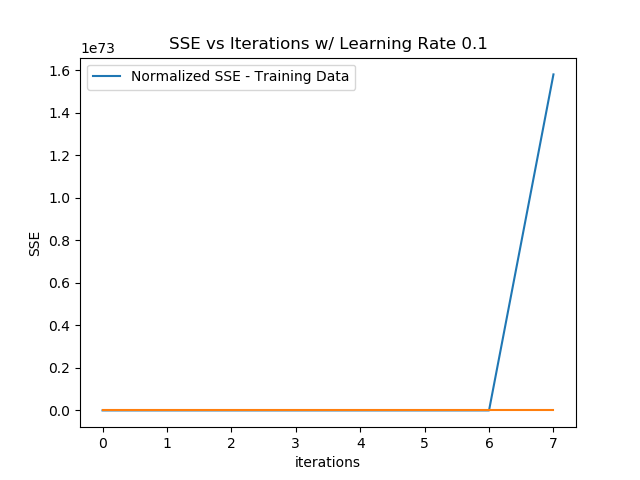
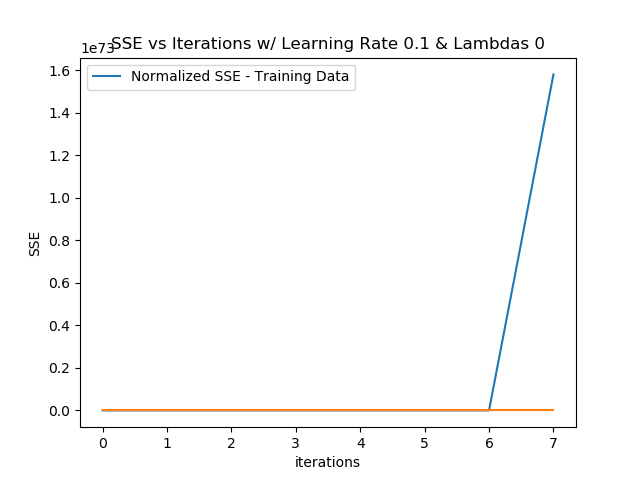
updated files

Changed region(s): [[0.1562, 0.0625, 0.8438, 0.125]]

diff --git a/implementation1.py b/implementation1.py
@@ -34,7 +34,7 @@ def separate(df_train):
     x = split_date(x)
     x = x.drop(["date"], axis=1)
     # Grab response y
-    y = df_train.iloc[:, -1]
+    y = df_train.iloc[:, -1].values
 
     return x, y
 
@@ -119,7 +119,6 @@ def linear_regress(x, y, eta, t, lamb):
         e = (y - y_hat) ** 2
 
         gradient_vector = (-2) * np.matmul(x.T, (y - y_hat))
-
         # Update weights
         w -= eta * gradient_vector
         # Calculate SSE
@@ -144,7 +143,7 @@ def linear_regress(x, y, eta, t, lamb):
             print()
             print()
             return w, errors, gradient, n
-        if (n) % 5000 == 0:
+        if (n) % 50000 == 0:
             print(f'#Iteration : {n}#####')
             print(f'Gradient : {gradient[n - 1]}')
 
@@ -170,7 +169,7 @@ def get_sse(x, y, w):
 
 #Statistics on Numerical
 def get_stats(df1, categoical_list):
-    print(df1.describe().transpose().drop(columns=['count','25%', '50%', '75%']).drop(categoical_list))
+    df1.describe().transpose().drop(columns=['count','25%', '50%', '75%']).drop(categoical_list).to_csv('training_stats.csv')
 
 #Frequency Count on Categorical
 def get_freq_percentage_count(df1, col_names):
@@ -178,7 +177,7 @@ def get_freq_percentage_count(df1, col_names):
         percentage = (df1[col].value_counts(normalize=True).rename_axis('values').to_frame('freq_percentage').sort_index() * 100).round(1).astype(str) + '%'
         freq = df1[col].value_counts().rename_axis('values').to_frame('freq_count')
         result = pd.concat([percentage, freq], axis=1, join='inner')
-        print(result)
+        result.to_csv(col+"_frequency.csv")
 
 if __name__ == '__main__':
     #####DATA PREP#####
@@ -203,25 +202,12 @@ if __name__ == '__main__':
     x_val_norm_df = add_bias(x_val_norm_df)
     x_val_norm = x_val_norm_df.values
 
-    learning_rates = [10**0, 10**-1]#, 10**-2, 10**-3, 10**-4, 10**-5, 10**-6, 10**-7]
+    learning_rates = [10**0, 10**-1, 10**-2, 10**-3, 10**-4, 10**-5, 10**-6, 10**-7]
     lambdas = [0, 10**-3, 10**-2, 10**-1, 1, 10, 100]
 
-    #get_stats(df_train, ['waterfront', 'grade', 'condition'])
-    #get_freq_percentage_count(df_train, ['waterfront', 'grade', 'condition'])
+    get_stats(df_train, ['waterfront', 'grade', 'condition'])
+    get_freq_percentage_count(df_train, ['waterfront', 'grade', 'condition'])
 
-    weights6, sse6, gradient6, iter6 = linear_regress(x_norm, y, 10 ** -5, 50000, 0)
-    #sse6_val = get_sse(x_val_norm, y_val,weights6)
-    #print(sse6_val)
-    """
-    weights1, sse1, gradient1, iter1 = linear_regress(x_norm, y, 10 ** 0, 50000, 0)
-    weights2, sse2, gradient2, iter2 = linear_regress(x_norm, y, 10 ** -1, 50000, 0)
-    weights3, sse3, gradient3, iter3 = linear_regress(x_norm, y, 10 ** -2, 50000, 0)
-    weights4, sse4, gradient4, iter4 = linear_regress(x_norm, y, 10 ** -3, 50000, 0)
-    weights5, sse5, gradient5, iter5 = linear_regress(x_norm, y, 10 ** -4, 50000, 0)
-    weights6, sse6, gradient6, iter6 = linear_regress(x_norm, y, 10 ** -5, 50000, 0)
-    weights7, sse7, gradient7, iter7 = linear_regress(x_norm, y, 10 ** -6, 50000, 0)
-    weights8, sse8, gradient8, iter8 = linear_regress(x_norm, y, 10 ** -7, 50000, 0)
-    
     for learning_rate in learning_rates:
         if learning_rate == 1:
             string_learning_rate = "1e0"
@@ -240,12 +226,52 @@ if __name__ == '__main__':
         elif learning_rate == 0.0000001:
             string_learning_rate = "1e-7"
 
-        weights, sse, gradient = linear_regress(x_norm, y, learning_rate, 2000, 0)
+        weights, sse, gradient, iterations_count = linear_regress(x_norm, y, learning_rate, 15000000, 0)
+        sse_val = get_sse(x_val_norm, y_val,weights)
+        print("learning rate: " + str(learning_rate))
+        print("lambda: " + str(0))
+        print("SSE training: " + str(sse[-1]))
+        print("SSE validation: " + str(sse_val))
+        print("Iteration Count: " + str(iterations_count))
+        print()
+
         plt.plot(sse)
-        plt.title("SSE vs Iterations w/ Learning Rate "+ str(learning_rate) )
+        plt.title("SSE vs Iterations w/ Learning Rate " + str(learning_rate) + " & Lambdas " + str(0))
         plt.legend(["Normalized SSE - Training Data"])
         plt.xlabel('iterations')
         plt.ylabel('SSE')
         filename = "learning_rate_" + string_learning_rate + "_lambda_0"
         plt.savefig(filename)
-    """
+
+    for lamb in lambdas:
+        if lamb == 1:
+            string_lambdas = "1e0"
+        elif lamb == 0:
+            string_lambdas = "0"
+        elif lamb == 0.001:
+            string_lambdas = "1e-3"
+        elif lamb == 0.01:
+            string_lambdas = "1e-2"
+        elif lamb == 0.1:
+            string_lambdas = "1e-1"
+        elif lamb == 10:
+            string_lambdas = "1e1"
+        elif lamb == 100:
+            string_lambdas = "1e2"
+
+        weights, sse, gradient, iterations_count = linear_regress(x_norm, y, 10**-5, 15000000, lamb)
+        sse_val = get_sse(x_val_norm, y_val, weights)
+        print("learning rate: " + str(10**-5))
+        print("lambda: " + str(lamb))
+        print("SSE training: " + str(sse[-1]))
+        print("SSE validation: " + str(sse_val))
+        print("Iteration Count: " + str(iterations_count))
+        print()
+
+        plt.plot(sse)
+        plt.title("SSE vs Iterations w/ Learning Rate " + str(10**-5) + " & Lambdas " + str(lamb))
+        plt.legend(["Normalized SSE - Training Data"])
+        plt.xlabel('iterations')
+        plt.ylabel('SSE')
+        filename = "learning_rate_1e5" + "_lambda_" + string_lambdas
+        plt.savefig(filename)

diff --git a/implementation1_test.py b/implementation1_test.py
@@ -34,7 +34,7 @@ def seperate(df_train):
     x = split_date(x)
     x = x.drop(["date"], axis=1)
     # Grab response y
-    y = df_train.iloc[:, -1]
+    y = df_train.iloc[:, -1].values
 
     return x, y
 
@@ -116,10 +116,15 @@ def linear_regress(x, y, eta, t, lamb):
 
         # y_hat = np.matmul(w.T, x)
         y_hat = np.matmul(x, w)
+        samp = y - y_hat
         e = (y - y_hat) ** 2
-        print(x.T)
-        print((y - y_hat))
-        gradient_vector = (-2) * np.matmul(x.T,(y - y_hat))
+        print(np.shape(x))
+        print(np.shape(w))
+        print(np.shape(x.T))
+        print(np.shape(y))
+        print(np.shape(y_hat))
+        print(np.shape(y - y_hat))
+        gradient_vector = (-2) * np.matmul(x.T,y)
 
         # Update weights
         w -= eta * gradient_vector
@@ -173,6 +178,5 @@ if __name__ == '__main__':
     x_norm_df = add_bias(x_norm_df)
     x_norm = x_norm_df.values
 
-    x_norm_df
 
     weights6, sse6, gradient6, iter6 = linear_regress(x_norm, y, 10 ** -5, 500000, 0)
